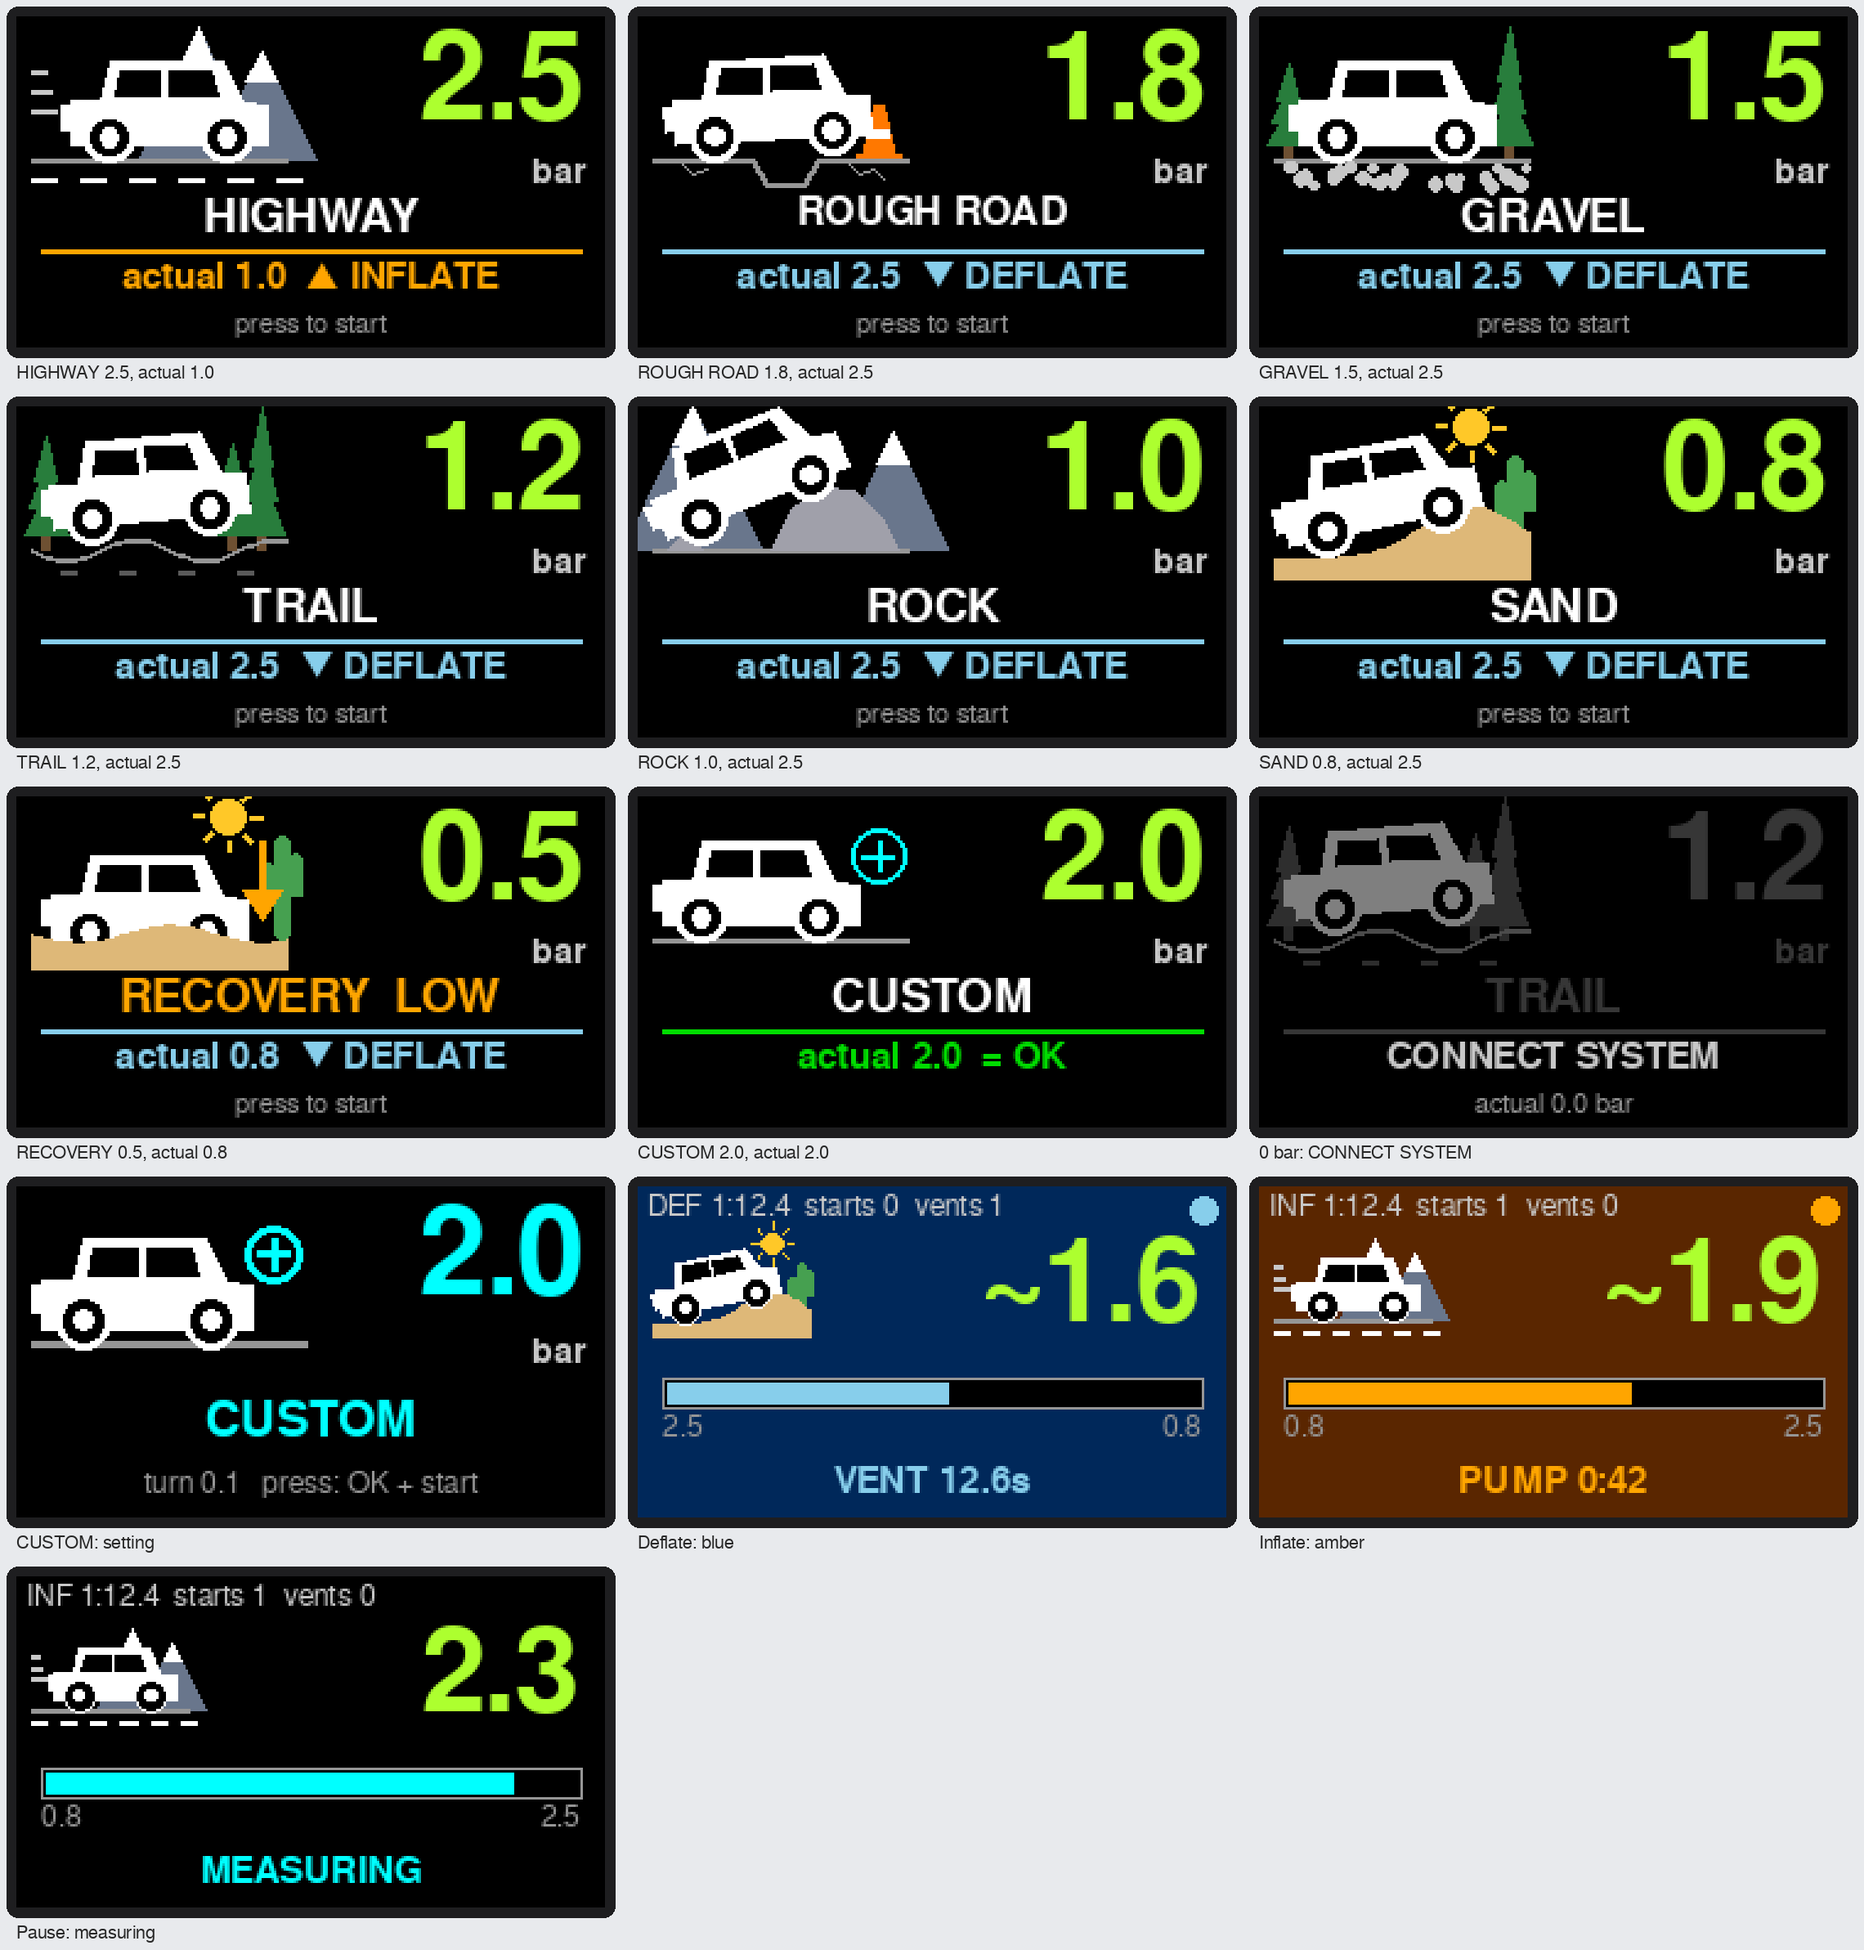
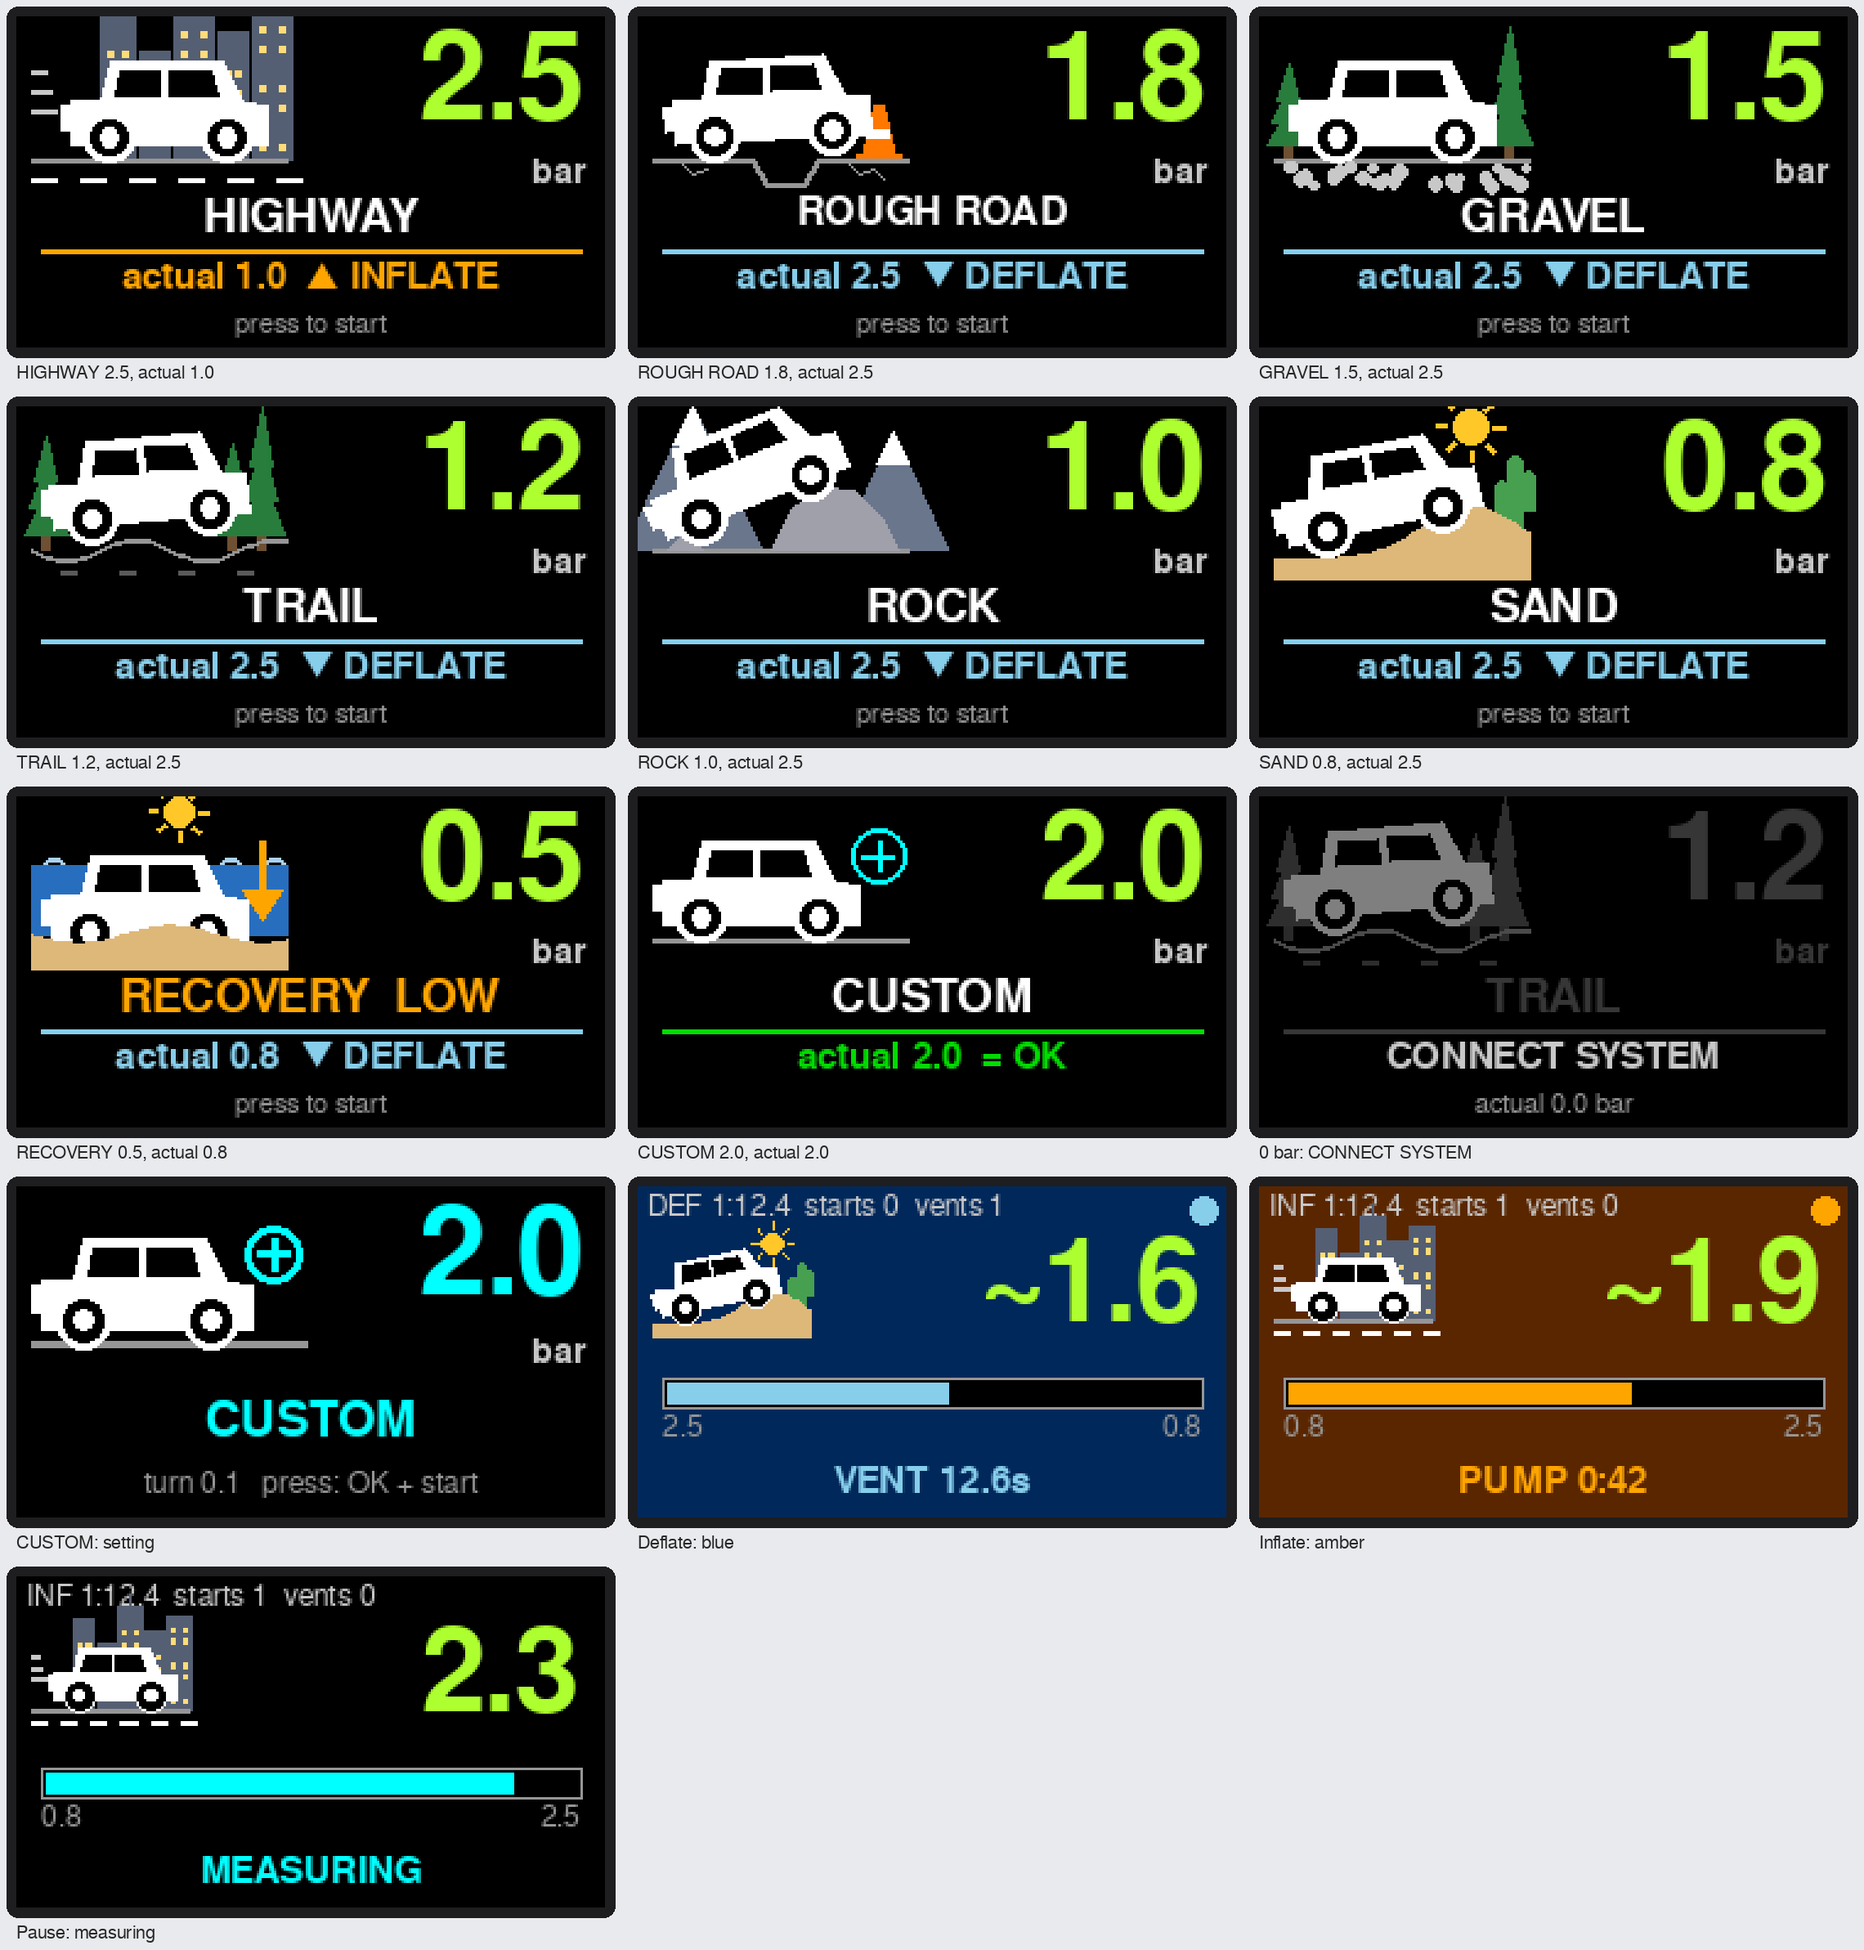
Screen mock-ups: HIGHWAY city skyline, RECOVERY beach with sea
Claude-Session: https://claude.ai/code/session_018z5LvCZ9NFya6WZW91qW8w

diff --git a/docs/screen/screen_mockup.py b/docs/screen/screen_mockup.py
@@ -29,6 +29,26 @@ def suv(d, x, y, s, ang=0.0, sink=0.0):
 
 
 TREE, CACT, SUN, MOUNT, CONE = (40, 125, 60), (70, 160, 80), (255, 200, 40), (105, 118, 140), (255, 120, 0)
+TOWER, LITWIN, SEA, FOAM = (85, 95, 115), (255, 220, 120), (40, 110, 190), (170, 210, 240)
+
+
+def skyline(d, X, g, s):
+    """city towers behind the road: (u0, width, height) in units, lit windows"""
+    for u0, wd, ht in ((14, 7, 30), (22, 6, 22), (29, 8, 34), (38, 6, 26), (45, 8, 31)):
+        d.rectangle([X(u0), g - ht * s, X(u0 + wd), g], fill=TOWER)
+        for wy in range(4, int(ht) - 2, 4):
+            for wx in (1.5, wd - 2.5):
+                if (wy * 7 + u0) % 3:
+                    d.rectangle([X(u0 + wx), g - (ht - wy) * s, X(u0 + wx + 1), g - (ht - wy) * s + s], fill=LITWIN)
+    d.rectangle([X(32.5), g - 38 * s, X(33.2), g - 34 * s], fill=TOWER)    # antenna
+
+
+def sea(d, X, g, s):
+    """sea band behind the beach with a couple of wave crests"""
+    top = g - 15 * s
+    d.rectangle([X(0), top, X(52), g - 1 * s], fill=SEA)
+    for u in range(2, 52, 9):
+        d.arc([X(u), top - 1.5 * s, X(u + 5), top + 2 * s], 200, 340, fill=FOAM, width=max(1, int(s)))
 
 
 def fir(d, X, g, s, u, hgt):
@@ -68,7 +88,7 @@ def peak(d, X, g, s, u0, u1, top, snow=True):
 def scenery(d, name, X, g, s):
     """background drawn before terrain and SUV"""
     if name == "HIGHWAY":
-        peak(d, X, g, s, 22, 46, 27); peak(d, X, g, s, 36, 58, 22)
+        skyline(d, X, g, s)
     elif name == "ROUGH ROAD":
         x = X(46); d.polygon([(x - 3.5 * s, g), (x + 3.5 * s, g), (x + 1 * s, g - 11 * s), (x - 1 * s, g - 11 * s)], fill=CONE)
         d.rectangle([x - 2.2 * s, g - 6 * s, x + 2.2 * s, g - 4.5 * s], fill=WHITE)
@@ -82,7 +102,7 @@ def scenery(d, name, X, g, s):
     elif name == "SAND":
         sun(d, X, g, s, 40, 25); cactus(d, X, g, s, 49, 19)
     elif name == "RECOVERY":
-        sun(d, X, g, s, 40, 25); cactus(d, X, g, s, 51, 21)
+        sea(d, X, g, s); sun(d, X, g, s, 30, 26, r=3)
 
 
 def icon(d, name, ox, oy, w):

diff --git a/docs/screen/sim2.py b/docs/screen/sim2.py
@@ -29,6 +29,26 @@ def suv(d, x, y, s, ang=0.0, sink=0.0):
 
 
 TREE, CACT, SUN, MOUNT, CONE = (40, 125, 60), (70, 160, 80), (255, 200, 40), (105, 118, 140), (255, 120, 0)
+TOWER, LITWIN, SEA, FOAM = (85, 95, 115), (255, 220, 120), (40, 110, 190), (170, 210, 240)
+
+
+def skyline(d, X, g, s):
+    """city towers behind the road: (u0, width, height) in units, lit windows"""
+    for u0, wd, ht in ((14, 7, 30), (22, 6, 22), (29, 8, 34), (38, 6, 26), (45, 8, 31)):
+        d.rectangle([X(u0), g - ht * s, X(u0 + wd), g], fill=TOWER)
+        for wy in range(4, int(ht) - 2, 4):
+            for wx in (1.5, wd - 2.5):
+                if (wy * 7 + u0) % 3:
+                    d.rectangle([X(u0 + wx), g - (ht - wy) * s, X(u0 + wx + 1), g - (ht - wy) * s + s], fill=LITWIN)
+    d.rectangle([X(32.5), g - 38 * s, X(33.2), g - 34 * s], fill=TOWER)    # antenna
+
+
+def sea(d, X, g, s):
+    """sea band behind the beach with a couple of wave crests"""
+    top = g - 15 * s
+    d.rectangle([X(0), top, X(52), g - 1 * s], fill=SEA)
+    for u in range(2, 52, 9):
+        d.arc([X(u), top - 1.5 * s, X(u + 5), top + 2 * s], 200, 340, fill=FOAM, width=max(1, int(s)))
 
 
 def fir(d, X, g, s, u, hgt):
@@ -68,7 +88,7 @@ def peak(d, X, g, s, u0, u1, top, snow=True):
 def scenery(d, name, X, g, s):
     """background drawn before terrain and SUV"""
     if name == "HIGHWAY":
-        peak(d, X, g, s, 22, 46, 27); peak(d, X, g, s, 36, 58, 22)
+        skyline(d, X, g, s)
     elif name == "ROUGH ROAD":
         x = X(46); d.polygon([(x - 3.5 * s, g), (x + 3.5 * s, g), (x + 1 * s, g - 11 * s), (x - 1 * s, g - 11 * s)], fill=CONE)
         d.rectangle([x - 2.2 * s, g - 6 * s, x + 2.2 * s, g - 4.5 * s], fill=WHITE)
@@ -82,7 +102,7 @@ def scenery(d, name, X, g, s):
     elif name == "SAND":
         sun(d, X, g, s, 40, 25); cactus(d, X, g, s, 49, 19)
     elif name == "RECOVERY":
-        sun(d, X, g, s, 40, 25); cactus(d, X, g, s, 51, 21)
+        sea(d, X, g, s); sun(d, X, g, s, 30, 26, r=3)
 
 
 def icon(d, name, ox, oy, w):
